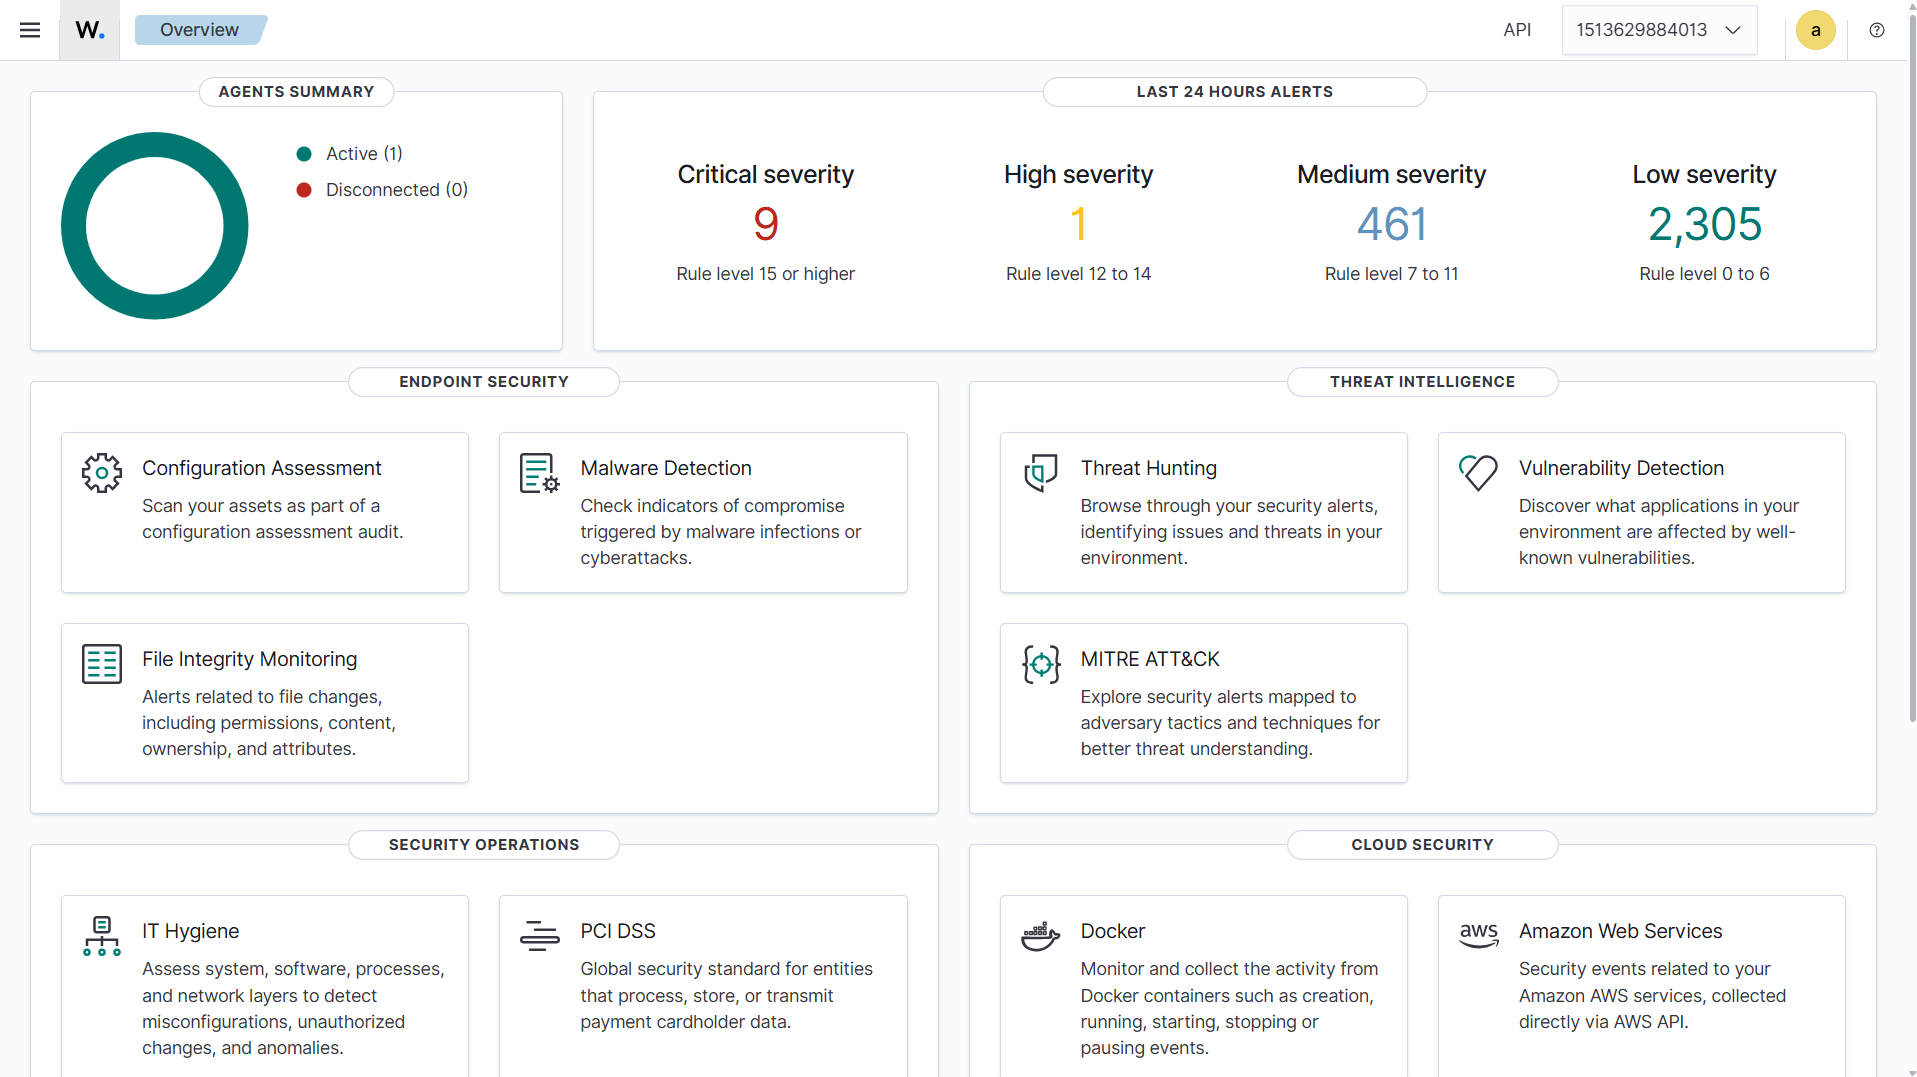
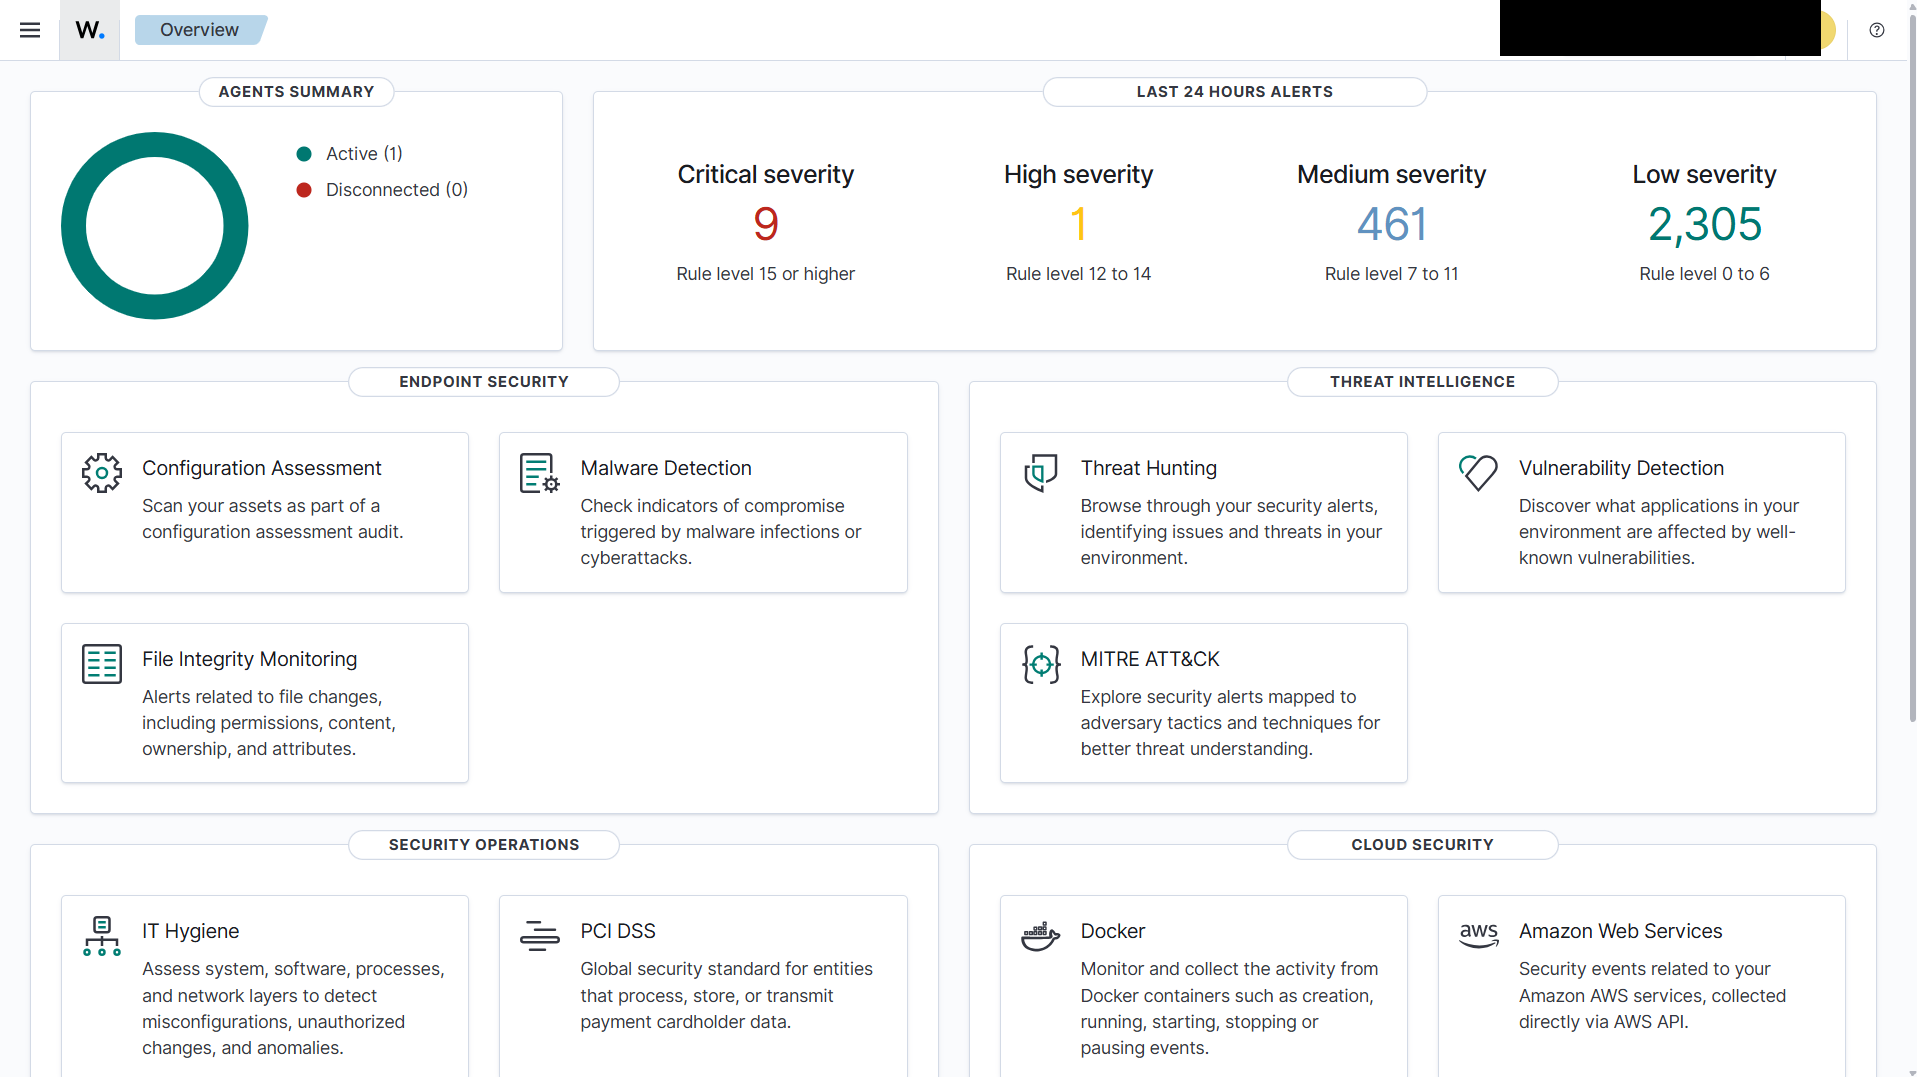
Add redacted screenshots to README

Changed region(s): [[0.7694, 0.0, 0.9541, 0.0613]]

diff --git a/README.md b/README.md
@@ -10,6 +10,22 @@ Lab keamanan defensif mandiri di laptop pribadi: Wazuh SIEM di WSL2/Docker, endp
 - NVIDIA `NvContainerLocalSystem` crash loop sudah diperbaiki dengan driver 582.78.
 - Tuning sempit untuk noise 92213/92058; tidak ada suppression global.
 
+## Screenshots
+
+> Screenshot sudah diredaksi untuk menghapus hostname, username, dan API ID.
+
+### Dashboard overview
+![Dashboard overview](docs/screenshots/dashboard.png)
+
+### Agents active
+![Agents active](docs/screenshots/agents-active.png)
+
+### Sysmon process telemetry
+![Sysmon process telemetry](docs/screenshots/sysmon-process.png)
+
+### Linux file integrity monitoring
+![Linux FIM](docs/screenshots/linux-fim.png)
+
 ## Dokumentasi
 
 - [docs/README.md](docs/README.md) — indeks dokumentasi.
